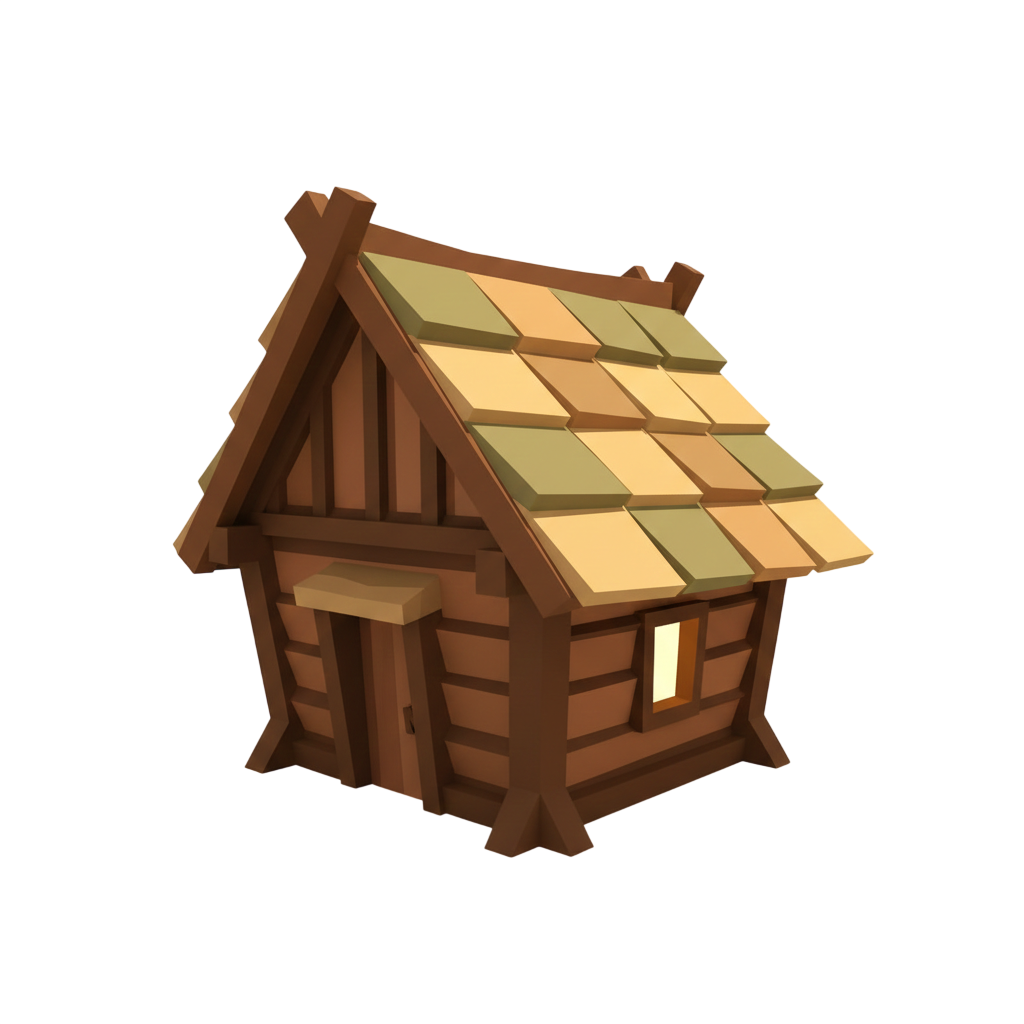
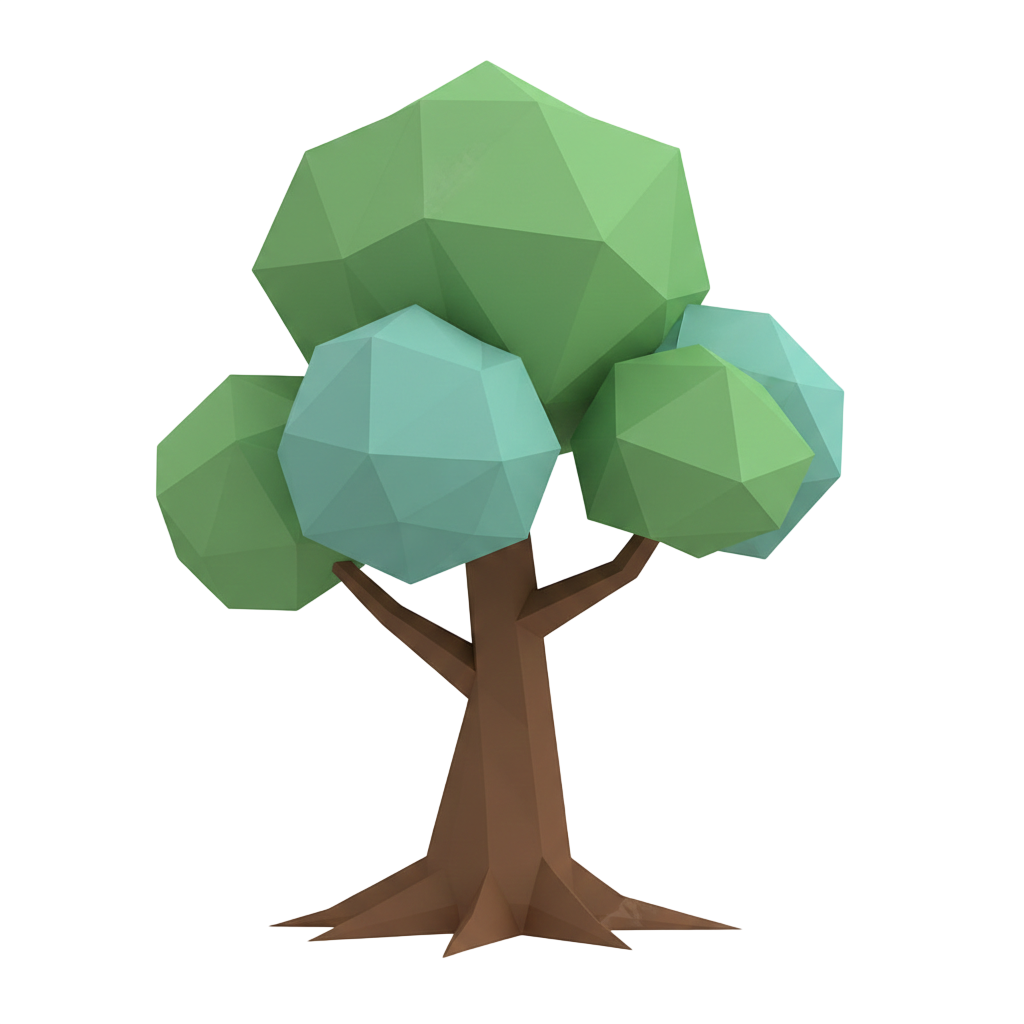
buttons fixed

diff --git a/frontend/src/pages/GraphPage.jsx b/frontend/src/pages/GraphPage.jsx
@@ -160,7 +160,6 @@ export default function GraphPage({ onBack, loadData }) {
   const baseScore = loadData?.data?.past?.eco_score;
   const future = loadData?.data?.future;
   const [backHover, setBackHover] = useState(false);
-  const [houseHover, setHouseHover] = useState(false);
 
   // Popup data
   const updatedScore = future?.carbon_score_update?.updated_eco_score;
@@ -187,7 +186,7 @@ export default function GraphPage({ onBack, loadData }) {
           backgroundSize: "cover", backgroundPosition: "center 80%",
           overflow: "hidden",
           fontFamily: "var(--font-ui)",
-          display: "flex", alignItems: "center", justifyContent: "flex-end",
+          display: "flex", alignItems: "center", justifyContent: "center",
         }}>
           <div style={{ position: "absolute", inset: 0, background: "rgba(255,255,255,0.15)" }} />
           <div style={{
@@ -215,7 +214,7 @@ export default function GraphPage({ onBack, loadData }) {
       >← Back</button>
 
       {/* Row: graph left, house+trees right */}
-      <div style={{ position: "relative", display: "flex", flexDirection: "row", alignItems: "center", gap: 60, paddingRight: 80 }}>
+      <div style={{ position: "relative", display: "flex", flexDirection: "row", alignItems: "center", gap: 48 }}>
 
       {/* Column: tabs + content box */}
       <div style={{ display: "flex", flexDirection: "column", alignItems: "flex-start" }}>
@@ -319,9 +318,10 @@ export default function GraphPage({ onBack, loadData }) {
 
         {/* Right: house */}
         <div
-          style={{ position: "relative", display: "inline-flex", flexDirection: "column", alignItems: "center", cursor: "pointer" }}
-          onMouseEnter={() => setHouseHover(true)}
-          onMouseLeave={() => setHouseHover(false)}
+          style={{
+            display: "flex", flexDirection: "column", alignItems: "center",
+            cursor: "pointer",
+          }}
           onClick={() => setShowPopup(true)}
         >
           <style>{`
@@ -335,13 +335,11 @@ export default function GraphPage({ onBack, loadData }) {
             alt="house"
             style={{
               width: 320, objectFit: "contain", userSelect: "none",
-              animation: houseHover ? "houseBounce 0.6s ease-in-out infinite" : "none",
+              animation: "houseBounce 1.8s ease-in-out infinite",
             }}
           />
           <div style={{
             marginTop: 8,
-            opacity: houseHover ? 1 : 0,
-            transition: "opacity 0.2s",
             background: "rgba(255,255,255,0.85)",
             backdropFilter: "blur(4px)",
             borderRadius: 99,

diff --git a/frontend/src/pages/MapPage.jsx b/frontend/src/pages/MapPage.jsx
@@ -90,6 +90,7 @@ function YearCard({ block, checked, onToggle }) {
 export default function MapPage({ planData, onBack, onGraph }) {
   const [checked, setChecked] = useState(new Set());
   const [backHover, setBackHover] = useState(false);
+  const [graphHover, setGraphHover] = useState(false);
 
   const toggle = (id) => {
     setChecked(prev => {
@@ -211,13 +212,17 @@ export default function MapPage({ planData, onBack, onGraph }) {
         {/* View graphs button */}
         <button
           onClick={onGraph}
+          onMouseEnter={() => setGraphHover(true)}
+          onMouseLeave={() => setGraphHover(false)}
           style={{
             padding: "13px 36px", paddingLeft: 32,
             background: ACCENT_COLOR, color: "#fff",
             border: "none", borderRadius: 28,
             fontWeight: 600, fontSize: 16, cursor: "pointer",
             fontFamily: "var(--font-ui)",
-            transition: "background 0.2s", whiteSpace: "nowrap",
+            transition: "background 0.2s, box-shadow 0.2s",
+            whiteSpace: "nowrap",
+            boxShadow: graphHover ? "0 6px 20px rgba(0,0,0,0.22)" : "none",
           }}
         >
           View Graphs

diff --git a/frontend/src/components/PlanInputs.jsx b/frontend/src/components/PlanInputs.jsx
@@ -79,11 +79,15 @@ export default function PlanInputs({ budget, years, priority, errors, onBudgetCh
         <button
           onClick={onGenerate}
           disabled={loading}
+          onMouseEnter={e => { if (!loading) e.currentTarget.style.boxShadow = "0 6px 20px rgba(0,0,0,0.22)"; }}
+          onMouseLeave={e => { e.currentTarget.style.boxShadow = "none"; }}
           style={{
             ...generateBtnStyle,
             background: loading ? "rgba(89,58,42,0.6)" : ACCENT_COLOR,
             cursor: loading ? "default" : "pointer",
             display: "flex", alignItems: "center", gap: 10,
+            transition: "background 0.2s, box-shadow 0.2s",
+            boxShadow: "none",
           }}
         >
           {loading && (
